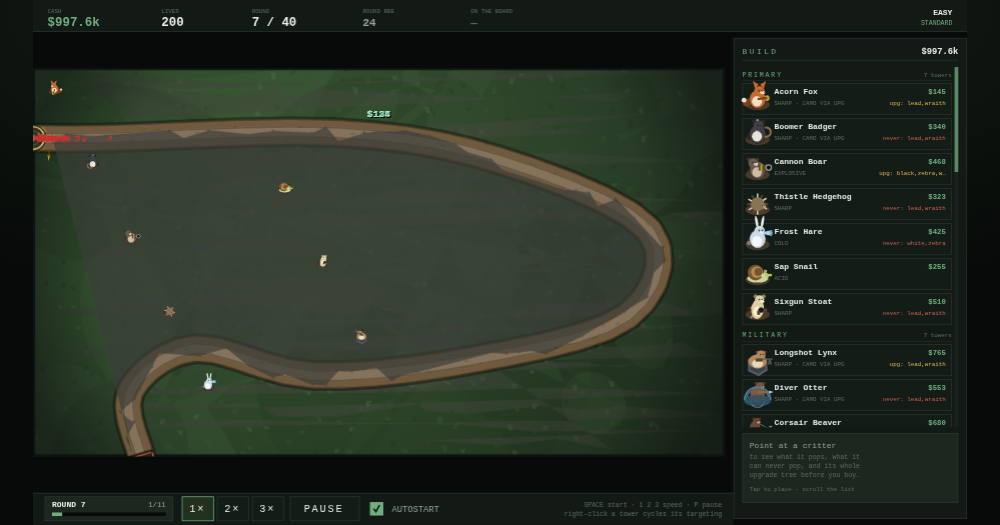
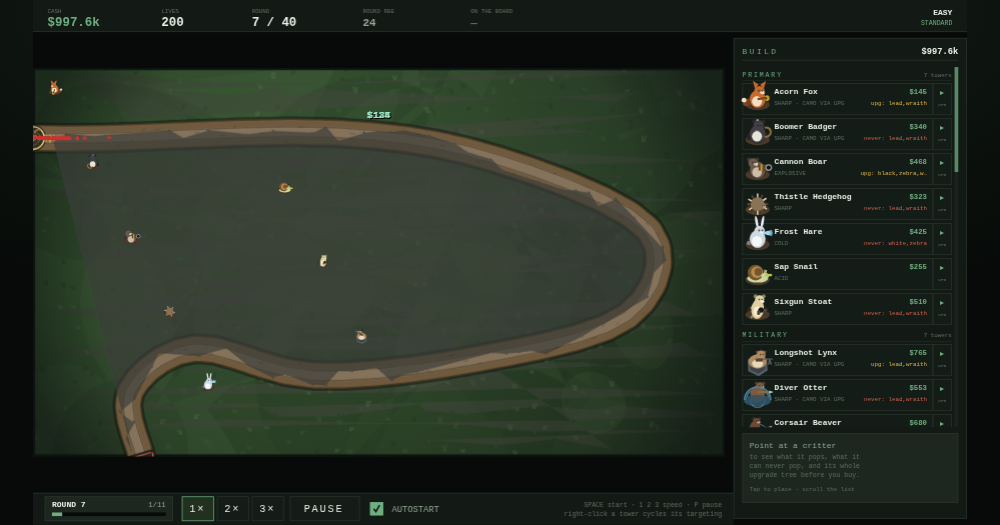
fix(shop): put the upgrade-tree button ON each card; size the tree to its text
Reported by Andre: the UPGRADES button was unreachable. It lived only in the
detail strip below the list, so pressing it meant dragging the pointer off the
card that summoned it — and the strip was rebuilt from live hover, so it either
vanished on the way or described a different tower by the time the pointer
arrived. A control that can only be reached by leaving the thing it belongs to is
not a control.

Now every card carries its own tree strip on its right edge. The buy area stops
where the strip starts rather than sitting under it, so the hit test does not
depend on push order and the panel keeps its no-overlapping-widgets invariant.
The detail strip is also sticky now — it keeps its subject when the pointer
leaves — which is worth having on its own.

The tree panel sizes itself to its text. Measured across all 375 upgrade
descriptions: 74 need one line, the longest needs eight. A fixed row height
either clipped long ones mid-sentence or wasted a screen on short ones, so rows
are as tall as their own text and the line cap only drops if the tallest column
would not fit. Also made the × visible — the footer promised it and nothing was
drawn.

diff --git a/js/ui/shop.js b/js/ui/shop.js
@@ -30,6 +30,9 @@
 
   const FIELD_W = OP.FIELD_W
 
+  /** Width of the upgrade-tree strip on the right of every card. */
+  const TREE_W = 26
+
   function ui () { return OP.Menus && OP.Menus.UI ? OP.Menus.UI : null }
 
   function colours () {
@@ -222,7 +225,18 @@
   const state = {
     scroll: 0,          // pixels the card list is scrolled down by
     maxScroll: 0,       // recomputed each build; clamps the above
-    tree: null          // tower/hero key whose upgrade tree is open, or null
+    tree: null,         // tower/hero key whose upgrade tree is open, or null
+
+    /* The detail strip is STICKY: it keeps showing the last critter the pointer
+       was over, and is only replaced by hovering a different one.
+
+       It used to follow live hover, which made the UPGRADES button unreachable —
+       moving the pointer off the card to go and press it rebuilt the strip from
+       "nothing hovered", so the button vanished before it could be clicked. Any
+       control that lives in a hover-driven panel has to outlive the hover that
+       summoned it, or it cannot be used with a mouse at all. */
+    detailKey: null,
+    detailHero: false
   }
   Shop.state = state
 
@@ -275,7 +289,7 @@
       marks.push(U.text(x0, top + 30, 'No towers are registered yet.', { size: 12, colour: C.dim }))
       marks.push(U.text(x0, top + 50, 'js/towers/*.js registers each family;', { size: 9, colour: C.faint }))
       marks.push(U.text(x0, top + 62, 'this panel lists whatever is there.', { size: 9, colour: C.faint }))
-      detail(app, sim, marks, over, null, S, detailY, detailH)
+      detail(app, sim, marks, over, S, detailY, detailH)
       return model(marks, widgets, over, app)
     }
 
@@ -349,7 +363,12 @@
            would leave the bug. */
         if (cy + cardH < top || cy > bottom) continue
 
-        const w = U.button('shop.' + def.key, x0, cy, cardW, cardH, {
+        // The buy area STOPS where the tree strip starts, rather than sitting under
+        // it. No overlap means the hit test does not depend on push order, and the
+        // panel keeps the "no two widgets overlap" invariant the suite enforces.
+        const hasTree = !!(def.paths && def.paths.length)
+        const buyW = cardW - (hasTree ? TREE_W : 0)
+        const w = U.button('shop.' + def.key, x0, cy, buyW, cardH, {
           label: '',
           disabled: st.state !== 'ok',
           selected: placingKey === def.key,
@@ -363,6 +382,28 @@
         w.hero = group.hero
         w.price = st.price
         widgets.push(w)
+
+        /* THE UPGRADE-TREE BUTTON LIVES ON THE CARD.
+           It was originally only in the detail strip, which made it unreachable:
+           the strip sits below the list, so getting to the button meant dragging
+           the pointer down across six other cards, and by the time it arrived the
+           strip described a different tower. A control that can only be reached by
+           leaving the thing it belongs to is not a control.
+
+           Pushed AFTER the card so it wins the hit test — UI.hit scans backwards —
+           and given a strip of the card's full height so it is an easy target. */
+        if (hasTree) {
+          const tw = U.button('shop.tree.' + def.key, x0 + buyW, cy, TREE_W, cardH, {
+            label: '',
+            action: 'shop-tree',
+            arg: def.key
+          })
+          tw.hero = group.hero
+          tw.state = st.state
+          tw.price = st.price
+          tw.reason = st.reason
+          widgets.push(tw)
+        }
 
         card(sim, listOver, def, st, x0, cy, cardW, cardH, group.hero)
       }
@@ -393,10 +434,23 @@
       scroll: state.scroll,
       maxScroll: state.maxScroll
     })
+    /* Remember what to show BEFORE anything else can change the hover. A card
+       under the pointer replaces it; pointing at nothing leaves it alone, which is
+       what makes the button in the strip reachable. Placing mode wins outright —
+       the player has committed to that critter. */
+    const hoveredDef = m.hovered && (m.hovered.action === 'shop-buy') ? m.hovered : null
+    if (placingKey) {
+      state.detailKey = placingKey
+      state.detailHero = !!(io && io.placingIsHero)
+    } else if (hoveredDef) {
+      state.detailKey = hoveredDef.arg
+      state.detailHero = !!hoveredDef.hero
+    }
+
     // `detail` appends the upgrade-tree button to `widgets`, so hit testing sees
     // it; splitting it out here keeps it out of the clipped paint.
     const before = widgets.length
-    detail(app, sim, marks, over, m.hovered, S, detailY, detailH, widgets)
+    detail(app, sim, marks, over, S, detailY, detailH, widgets)
     m.chromeWidgets = widgets.slice(before)
     // Hover is resolved against the full set, chrome included.
     const io2 = ioOf(app)
@@ -415,6 +469,9 @@
 
   function card (sim, out, def, st, x, y, w, h, isHero) {
     const U = ui(); const C = colours()
+    // Leave the tree strip its own column so text never runs under it.
+    const hasTree = !!(def.paths && def.paths.length)
+    if (hasTree) w -= TREE_W
     const dim = st.state !== 'ok'
     const nameColour = st.state === 'ok' ? C.ink : (st.state === 'poor' ? C.dim : C.faint)
     const r = Math.floor(h * 0.36)
@@ -447,6 +504,13 @@
     // A permanent blind spot is the one thing worth shouting on the card itself:
     // it is the difference between a tower that needs an upgrade and one that will
     // never answer a round no matter what you spend.
+    if (hasTree) {
+      // A quiet chevron: discoverable without competing with the price.
+      out.push(U.text(x + w + TREE_W / 2, y + h / 2 - 5, '\u25B8', { size: 11, colour: C.moss, align: 'center' }))
+      out.push(U.text(x + w + TREE_W / 2, y + h / 2 + 9, 'UPG', { size: 6, colour: C.faint, align: 'center' }))
+      out.push(U.rule(x + w, y + 6, 0, { colour: C.line }))
+    }
+
     if (traits && traits.blindTo.length) {
       out.push(U.text(x + w - 8, y + 30, 'never: ' + U.clipText(traits.blindTo.join(','), 8, 70),
         { size: 8, colour: C.bad, align: 'right' }))
@@ -460,7 +524,7 @@
      The blurb lives here rather than in the cell, because a 145-wide cell cannot
      hold a sentence and a truncated blurb is worse than none. */
 
-  function detail (app, sim, marks, over, hovered, S, y, h, widgets) {
+  function detail (app, sim, marks, over, S, y, h, widgets) {
     const U = ui(); const C = colours()
     const padX = 12
     const x0 = S.x + padX
@@ -468,7 +532,14 @@
 
     marks.push(U.box(x0, y, innerW, h, { fill: C.panelHi, stroke: C.line }))
 
-    const def = hovered ? defFor(hovered) : null
+    /* Read the STICKY key, not the live hover — see Shop.state.detailKey. Also
+       re-derive price and availability every frame rather than reusing whatever the
+       card widget was carrying: cash changes constantly, and a strip quoting a
+       stale affordability would disagree with the card right above it. */
+    const key = state.detailKey
+    const isHero = !!state.detailHero
+    const def = key ? ((isHero ? OP.HEROES : OP.TOWERS) || {})[key] : null
+    const st = def ? entryState(sim, def, isHero) : null
     if (!def) {
       over.push(U.text(x0 + 10, y + 20, 'Point at a critter', { size: 11, colour: C.dim }))
       over.push(U.text(x0 + 10, y + 36, 'to see what it pops, what it', { size: 9, colour: C.faint }))
@@ -478,15 +549,14 @@
       return
     }
 
-    const isHero = !!hovered.hero
     const famLabel = isHero
       ? 'HERO' + (def.title ? ' · ' + String(def.title).toUpperCase() : '')
       : String((OP.FAMILY_LABELS && OP.FAMILY_LABELS[def.family]) || def.family || '').toUpperCase()
 
     over.push(U.text(x0 + 10, y + 18, U.clipText(def.name || def.key, 12, innerW - 80),
       { size: 12, colour: C.ink, weight: '600' }))
-    over.push(U.text(x0 + innerW - 10, y + 18, M.money(hovered.price === undefined ? def.cost : hovered.price),
-      { size: 11, colour: hovered.state === 'ok' ? C.moss : C.bad, align: 'right' }))
+    over.push(U.text(x0 + innerW - 10, y + 18, M.money(st.price),
+      { size: 11, colour: st.state === 'ok' ? C.moss : C.bad, align: 'right' }))
     over.push(U.text(x0 + 10, y + 30, U.clipText(famLabel, 8, innerW - 20), { size: 8, colour: C.moss }))
 
     const blurb = U.wrapText(def.blurb, 9, innerW - 20, 2)
@@ -522,34 +592,17 @@
       over.push(U.text(x0 + 10, ty, camo, { size: 8, colour: traits.camoNow ? C.moss : (traits.camoLater ? C.warn : C.dim) }))
     }
 
-    /* ----- the upgrade-tree button -----
-       Buying blind is the worst part of a tower-defense shop: the tree is the
-       whole reason to prefer one tower over another and it is normally invisible
-       until after you have paid. */
-    if (widgets && def.paths && def.paths.length) {
-      const bw = 96
-      const bh = 18
-      const bx = x0 + innerW - bw - 8
-      const by = y + h - bh - 6
-      const w = U.button('shop.tree.' + def.key, bx, by, bw, bh, {
-        label: 'UPGRADES  ▸',
-        action: 'shop-tree',
-        arg: def.key
-      })
-      // Carry the same fields the card does, so the strip renders identically
-      // whether the pointer is on the card or on this button.
-      w.hero = isHero
-      w.state = hovered.state
-      w.price = hovered.price
-      w.reason = hovered.reason
-      widgets.push(w)
-    }
+    /* No upgrade-tree button here any more — it lives on each card instead.
+       A duplicate would also collide on id, since the strip describes a card that
+       is usually still on screen. The strip just says how to get there. */
+    over.push(U.text(x0 + 10, y + h - 8, 'press \u25B8 UPG on a card for its full tree',
+      { size: 8, colour: C.faint }))
 
-    if (hovered.reason) {
-      const lines = U.wrapText(hovered.reason, 9, innerW - 118, 2)
+    if (st.reason) {
+      const lines = U.wrapText(st.reason, 9, innerW - 118, 2)
       for (let i = 0; i < lines.length; i++) {
         over.push(U.text(x0 + 10, y + h - 16 + i * 11 - (lines.length - 1) * 11, lines[i],
-          { size: 9, colour: hovered.state === 'blocked' ? C.warn : C.bad }))
+          { size: 9, colour: st.state === 'blocked' ? C.warn : C.bad }))
       }
     }
   }
@@ -574,60 +627,104 @@
     if (!U || !sim || !def) { state.tree = null; return null }
 
     const C = colours()
-    const W = 640
-    const H = 400
+    const paths = def.paths || []
+
+    /* SIZE THE PANEL TO THE TEXT, not the text to the panel.
+
+       Upgrade descriptions are not uniform: measured across all 375 of them, 74
+       need one line and the longest needs eight. A fixed row height either clips
+       the long ones mid-sentence — useless in a panel whose only job is telling
+       you what you would buy — or wastes a screen of whitespace on the short ones.
+
+       So each row is as tall as its own text, each column accumulates its own
+       height, and the line cap drops only if the tallest column would not fit on
+       screen. Clipping is the last resort, not the default. */
+    const W = 920
+    const PAD = 26
+    const HEAD = 102
+    const FOOT = 34
+    const colW = Math.floor((W - PAD * 2 - 12 * (paths.length - 1)) / Math.max(1, paths.length))
+    const MAX_H = OP.FIELD_H - 48
+
+    function layout (cap) {
+      const cols = []
+      let tallest = 0
+      for (let p = 0; p < paths.length; p++) {
+        const rows = []
+        let y = 0
+        const tiers = (paths[p] && paths[p].tiers) || []
+        for (let t = 0; t < tiers.length; t++) {
+          const up = tiers[t]
+          if (!up) continue
+          const lines = U.wrapText(up.desc || '', 8, colW - 22, cap)
+          const h = 22 + lines.length * 10 + 6
+          rows.push({ up: up, tier: t, dy: y, h: h, lines: lines })
+          y += h + 5
+        }
+        cols.push(rows)
+        if (y > tallest) tallest = y
+      }
+      return { cols: cols, h: HEAD + tallest + FOOT }
+    }
+
+    let plan = null
+    for (let cap = 8; cap >= 2; cap--) {
+      plan = layout(cap)
+      if (plan.h <= MAX_H) break
+    }
+
+    const H = Math.min(plan.h, MAX_H)
     const x0 = Math.round((FIELD_W - W) / 2)
     const y0 = Math.round((OP.FIELD_H - H) / 2)
 
     marks.push(U.box(x0, y0, W, H, { fill: C.panel, stroke: C.line, alpha: 0.985 }))
 
     const r = 22
-    marks.push(U.portrait(x0 + 26 + r, y0 + 30, r, def.key, {}))
-    over.push(U.text(x0 + 26 + r * 2 + 12, y0 + 26, def.name || def.key, { size: 15, colour: C.ink, weight: '600' }))
-    over.push(U.text(x0 + 26 + r * 2 + 12, y0 + 42, 'UPGRADE PATHS · ' + M.money(OP.Economy.price(sim, def.cost)) + ' to place',
+    marks.push(U.portrait(x0 + PAD + r, y0 + 30, r, def.key, {}))
+    over.push(U.text(x0 + PAD + r * 2 + 12, y0 + 26, def.name || def.key, { size: 15, colour: C.ink, weight: '600' }))
+    over.push(U.text(x0 + PAD + r * 2 + 12, y0 + 42, 'UPGRADE PATHS · ' + M.money(OP.Economy.price(sim, def.cost)) + ' to place',
       { size: 9, colour: C.moss }))
 
-    const close = U.button('shop.tree.close', x0 + W - 34, y0 + 14, 22, 22, {
-      label: '×', action: 'shop-tree-close'
+    const close = U.button('shop.tree.close', x0 + W - 36, y0 + 14, 24, 24, {
+      label: '', action: 'shop-tree-close'
     })
     widgets.push(close)
+    // Drawn as an explicit mark rather than relying on the button's own label: the
+    // footer promises "× closes", and a promise the player cannot see is a lie.
+    over.push(U.text(x0 + W - 24, y0 + 31, '\u00d7', { size: 16, colour: C.dim, align: 'center' }))
 
     // The crosspath rule is the single most surprising thing about a BTD-shaped
     // upgrade tree, and it decides which of these columns a player can finish.
-    over.push(U.text(x0 + 26, y0 + 64,
+    over.push(U.text(x0 + PAD, y0 + 64,
       'At most one branch past tier 2, at most two branches touched — so 5-2-0 and its permutations.',
       { size: 8, colour: C.faint }))
 
-    const paths = def.paths || []
-    const colW = Math.floor((W - 52 - 12 * (paths.length - 1)) / Math.max(1, paths.length))
-    const rowH = 52
+
 
     for (let p = 0; p < paths.length; p++) {
       const path = paths[p]
-      const cx = x0 + 26 + p * (colW + 12)
+      const cx = x0 + PAD + p * (colW + 12)
       over.push(U.text(cx, y0 + 88, U.clipText(String(path.name || 'PATH ' + (p + 1)).toUpperCase(), 9, colW),
         { size: 9, colour: C.moss, weight: '600' }))
       marks.push(U.rule(cx, y0 + 94, colW, { colour: C.line }))
 
-      const tiers = path.tiers || []
-      for (let t = 0; t < tiers.length; t++) {
-        const up = tiers[t]
-        if (!up) continue
-        const ry = y0 + 102 + t * rowH
-        marks.push(U.box(cx, ry, colW, rowH - 5, { fill: C.panelHi, stroke: C.line, alpha: 0.7 }))
-        over.push(U.text(cx + 6, ry + 13, String(t + 1), { size: 8, colour: C.faint }))
-        over.push(U.text(cx + 18, ry + 13, U.clipText(up.name || '', 9, colW - 62),
+      const rows = plan.cols[p] || []
+      for (let i = 0; i < rows.length; i++) {
+        const row = rows[i]
+        const ry = y0 + HEAD + row.dy
+        marks.push(U.box(cx, ry, colW, row.h, { fill: C.panelHi, stroke: C.line, alpha: 0.7 }))
+        over.push(U.text(cx + 6, ry + 13, String(row.tier + 1), { size: 8, colour: C.faint }))
+        over.push(U.text(cx + 18, ry + 13, U.clipText(row.up.name || '', 9, colW - 62),
           { size: 9, colour: C.ink, weight: '600' }))
-        over.push(U.text(cx + colW - 6, ry + 13, M.money(OP.Economy.price(sim, up.cost)),
+        over.push(U.text(cx + colW - 6, ry + 13, M.money(OP.Economy.price(sim, row.up.cost)),
           { size: 8, colour: C.moss, align: 'right' }))
-        const lines = U.wrapText(up.desc || '', 8, colW - 22, 2)
-        for (let i = 0; i < lines.length; i++) {
-          over.push(U.text(cx + 18, ry + 25 + i * 10, lines[i], { size: 8, colour: C.dim }))
+        for (let n = 0; n < row.lines.length; n++) {
+          over.push(U.text(cx + 18, ry + 25 + n * 10, row.lines[n], { size: 8, colour: C.dim }))
         }
       }
     }
 
-    over.push(U.text(x0 + 26, y0 + H - 12, 'ESC or × closes · this is a preview, nothing is bought here',
+    over.push(U.text(x0 + PAD, y0 + H - 12, 'ESC or × closes · this is a preview, nothing is bought here',
       { size: 8, colour: C.faint }))
 
     return model(marks, widgets, over, app, { screen: 'shop-tree', backdrop: 'scrim' })

diff --git a/docs/BUILD_LOG.md b/docs/BUILD_LOG.md
@@ -78,3 +78,4 @@ Append-only. Written by `tools/state.mjs`.
 - `2026-08-06 01:02:54` **done** P9.4 — Adversarial review pass on spine + content (`c30f12d`)
 - `2026-08-06 01:03:13` note P9.2 — FORCED, verify still red — and now for a documented reason. The instrument was fixed twice more (62a8ae9, c30f12d): the reference bot never held a reserve, so it could not afford the first explosive tower and met Lead with a sharp+acid board. Bounding that reserve to a genuinely unanswerable arriving tier makes the board CORRECT but leaves the hold rate at 5/72 — the remaining gap is upgrade DEPTH, because round-robin spreading never accumulates enough for a tier-4/5. Closing that means building a bot that plays like a competent human, which proves something about the bot. Round curve deliberately NOT retuned to rescue a weak bot: that would trivialise the real game. See docs/REVIEW.md finding 10. Needs a human.
 - `2026-08-06 01:03:13` note P9.2b — See P9.2. Left open deliberately. Any balance feedback from Andre playing the live game lands here first; do not blind-tune the round table.
+- `2026-08-06 01:57:36` **done** P11.7 — DEFERRED — portfolio games section card (`d87bd96`)
